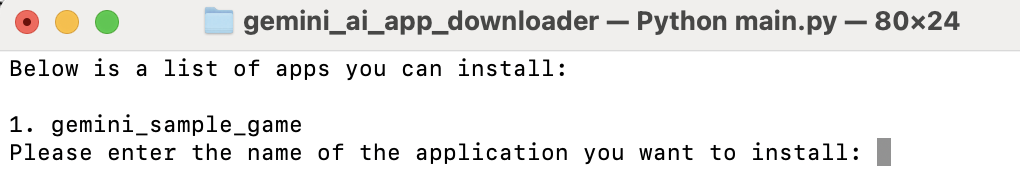
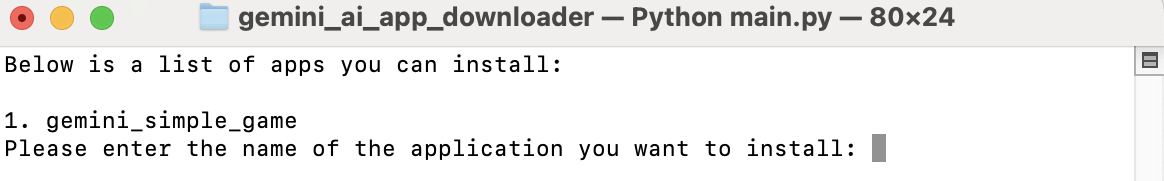
Added "gemini_simple_game" game!

diff --git a/setup.py b/setup.py
@@ -9,7 +9,7 @@ def readme():
 
 setup(
     name='gemini_ai_app_downloader',
-    version='1',
+    version='1.1',
     packages=['gemini_ai_app_downloader'],
     url='https://github.com/SoftwareApkDev/gemini_ai_app_downloader',
     license='MIT',

diff --git a/README.md b/README.md
@@ -4,9 +4,9 @@ An app which can be used to easily download any apps with Google Gemini AI integ
 
 # Downloadable Apps
 
-| Name               | Author                                                          | Latest Version |
-|--------------------|-----------------------------------------------------------------|----------------|
-| Gemini Sample Game | [GlobalCreativeApkDev](https://github.com/GlobalCreativeApkDev) | 1.2            |
+| Name               | Author                                              | Latest Version |
+|--------------------|-----------------------------------------------------|----------------|
+| Gemini Simple Game | [SoftwareApkDev](https://github.com/SoftwareApkDev) | 1              |
 
 # How to Add Your Downloadable App?
 
